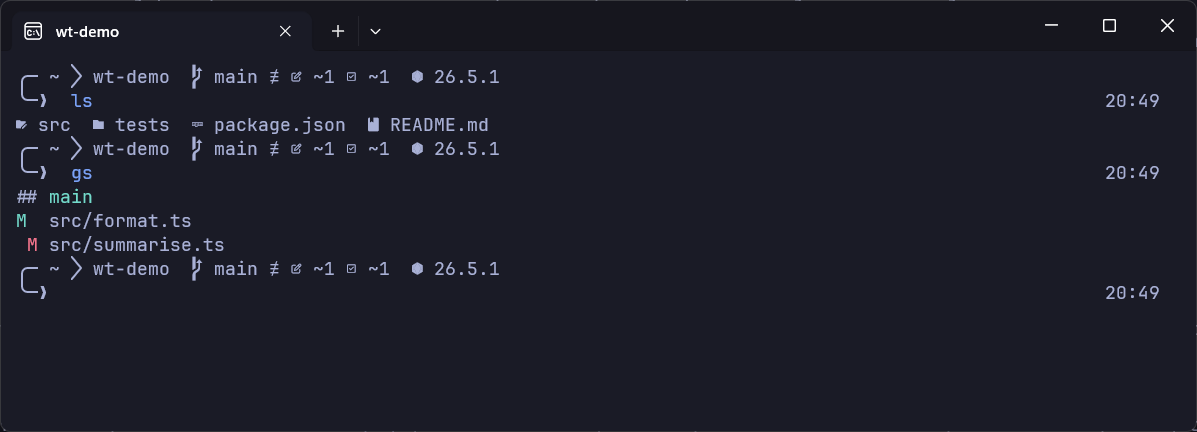
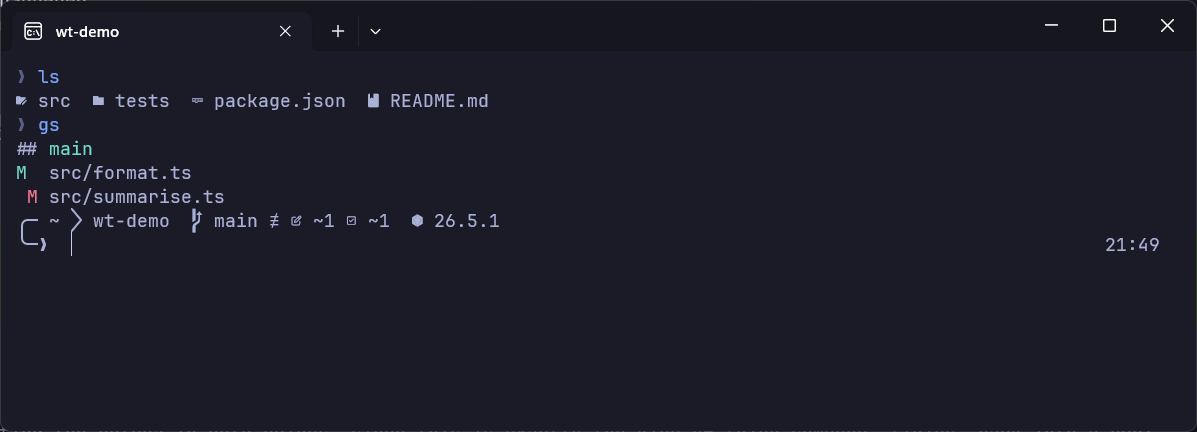
Fix transient prompt: set PSReadLine edit mode before oh-my-posh init
Set-PSReadLineOption -EditMode resets every key handler to that mode-s
defaults. oh-my-posh binds Enter to OhMyPoshEnterKeyHandler during init,
and that handler is what repaints a finished prompt as the transient
arrow. The profile ran init first and set the edit mode afterwards, so
the handler was discarded on every shell start - silently, with no
error, which is why it went unnoticed.

Measured both orders in a real shell:

  init then EditMode  ->  Enter = AcceptLine               (broken)
  EditMode then init  ->  Enter = OhMyPoshEnterKeyHandler  (works)

Adds tests/Test-Profile.ps1 to assert the ordering, plus a few other
silent-failure guards: no hardcoded user paths, cat not aliased to bat,
predictions guarded on redirected output. Wired into CI.

The README screenshot is retaken, since the old one showed the broken
behaviour with every prompt repeated in full.

diff --git a/docs/GUIDE.md b/docs/GUIDE.md
@@ -291,6 +291,30 @@ import PSFzf on first press, then hand off. `Set-PsFzfOption` rebinds the keys
 directly, so you pay the cost once per session and only if you use it.
 **First press feels slightly slow; every press after is instant.**
 
+### PSReadLine edit mode must be set BEFORE oh-my-posh init
+
+`Set-PSReadLineOption -EditMode` resets **every** key handler to that mode's
+defaults. oh-my-posh's init binds `Enter` to `OhMyPoshEnterKeyHandler`, and that
+handler is what redraws the finished prompt as the transient `❯`. Setting the
+edit mode afterwards throws the handler away — with no error. The shell starts
+normally and the transient prompt is simply gone.
+
+Measured both ways:
+
+| Profile order | `(Get-PSReadLineKeyHandler Enter).Function` | Transient prompt |
+|---|---|---|
+| init, then `-EditMode` | `AcceptLine` | broken |
+| `-EditMode`, then init | `OhMyPoshEnterKeyHandler` | works |
+
+Check it any time with:
+
+```powershell
+(Get-PSReadLineKeyHandler Enter).Function
+```
+
+Anything other than `OhMyPoshEnterKeyHandler` means something after the prompt
+setup clobbered the binding. `tests/Test-Profile.ps1` asserts the ordering.
+
 ### Predictions are guarded on redirected output
 
 `Set-PSReadLineOption -PredictionSource` throws *"The handle is invalid"* when
@@ -527,6 +551,7 @@ auditing PATH, since checking only `HKCU:\Environment` will report it missing.
 with no profile edit: `$env:EDITOR` is now `code -w`, and `ep` opens the profile
 in VS Code. `nvim` still wins over `code` if you ever install it (see the
 `$env:EDITOR` line in the profile's Environment section).
+
 
 
 
